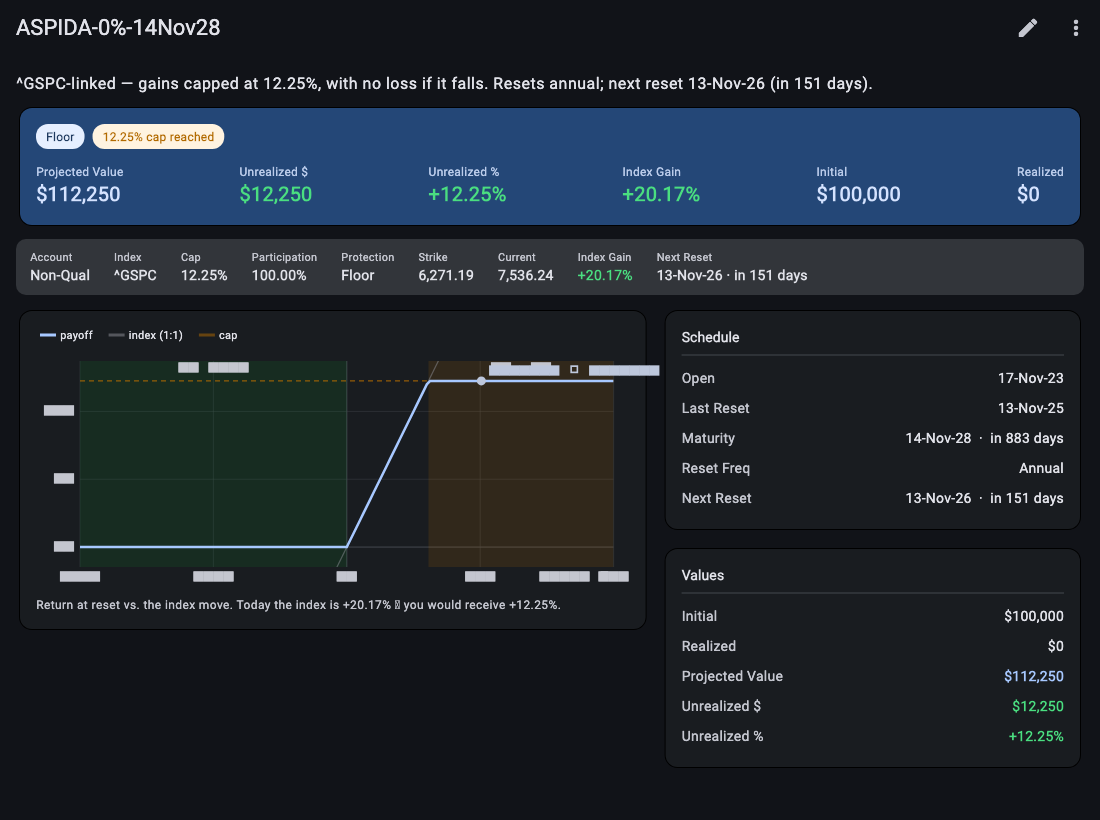
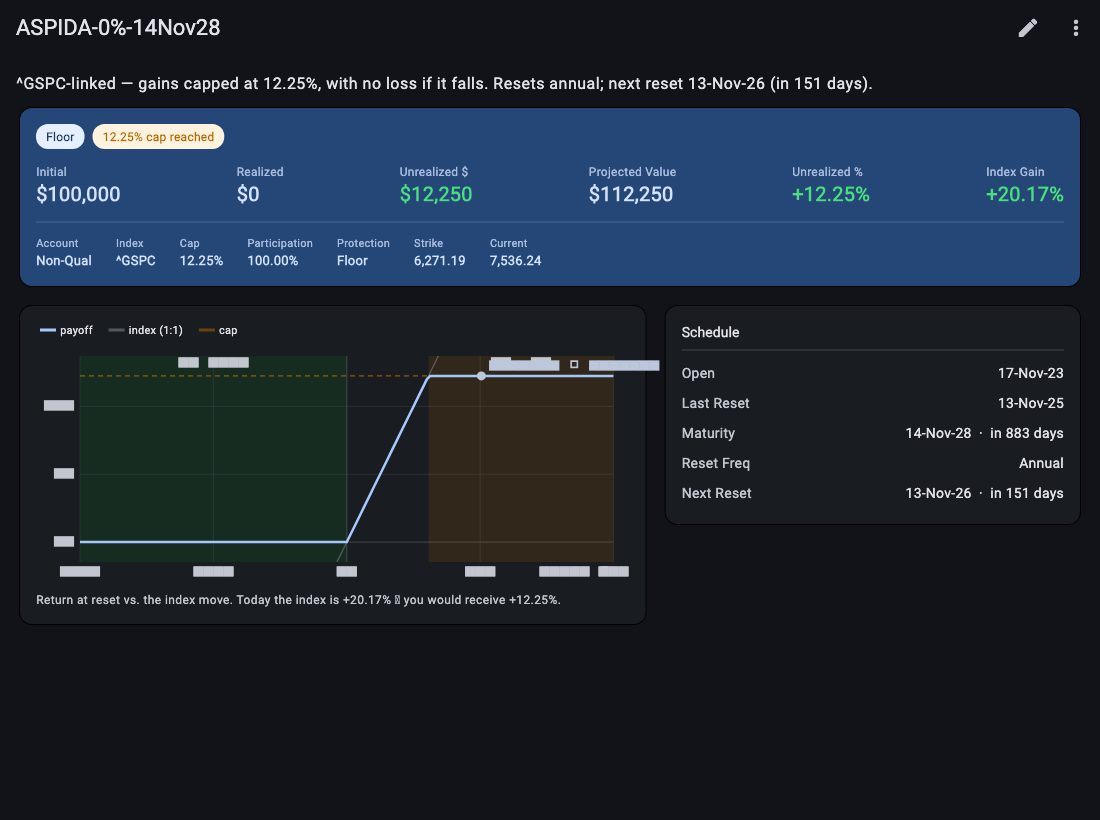
Drilldown: unified header + stop accrual at maturity + column order
- Reorder table money columns to Initial · Realized · Unrealized $ ·
  Projected Value · Unrealized % · Index Gain — dollars read as a sum, the two
  percentages sit together (Unrealized % now next to Index Gain).
- resetDue now stops at maturity: a reset dated after the maturity date is never
  processed, so a matured note can't keep crediting coupons. Covered by tests.
- Contract detail: merge the grey key-strip into the blue header as a second
  tier (terms below the figures) and drop the redundant Values card (it
  duplicated the header). One header, no duplicated figures.

diff --git a/app/lib/ui/holding_detail.dart b/app/lib/ui/holding_detail.dart
@@ -82,9 +82,7 @@ class HoldingDetail extends StatelessWidget {
             child: Text(_summary(h, asOf),
                 style: Theme.of(context).textTheme.bodyLarge?.copyWith(height: 1.4)),
           ),
-          _KeyFigures(h: h, cs: cs),
-          const SizedBox(height: 10),
-          _keyStrip(context, h, asOf), // compact scannable line of key facts
+          _KeyFigures(h: h, cs: cs, asOf: asOf),
           const SizedBox(height: 12),
           // Wide screens: chart and the fact cards side by side (everything
           // above the fold). Narrow: stacked.
@@ -144,81 +142,50 @@ class HoldingDetail extends StatelessWidget {
         ),
       );
 
+  // Only the Schedule (dates) lives beside the chart now — the figures and the
+  // contract terms moved into the unified header, so nothing is duplicated.
   Widget _sections(BuildContext context, Holding h, DateTime asOf, ColorScheme cs) =>
-      LayoutBuilder(builder: (context, c) {
-        final w = c.maxWidth >= 540 ? (c.maxWidth - 12) / 2 : c.maxWidth;
-        return Wrap(spacing: 12, runSpacing: 12, children: [
-          _Section(width: w, title: 'Schedule', rows: [
-            ('Open', date(h.openDate), null),
-            ('Last Reset', date(h.lastReset), null),
-            ('Maturity', '${date(h.maturity)}  ·  ${relDays(h.daysToMaturity(asOf))}', null),
-            ('Reset Freq', h.resetFreq.label, null),
-            ('Next Reset', '${date(h.nextReset)}  ·  ${relDays(h.daysToReset(asOf))}', null),
-          ]),
-          _Section(width: w, title: 'Values', rows: [
-            ('Initial', moneyK(h.initial), null),
-            ('Realized', moneyK(h.realized), null),
-            ('Projected Value', moneyK(h.projValueK), cs.primary),
-            ('Unrealized \$', moneyK(h.projGainDollarsK), gainColor(h.projGainDollarsK, cs)),
-            ('Unrealized %', pctSigned(h.projGain), gainColor(h.projGain, cs)),
-            if (h.isIncomeNote) ('Income note', 'coupon ${pct(h.couponRate)}', null),
-          ]),
-        ]);
-      });
-
-  /// Compact, scannable strip of the key terms/levels (mirrors the compact
-  /// table view) so the critical info is visible without scrolling.
-  Widget _keyStrip(BuildContext context, Holding h, DateTime asOf) {
-    final cs = Theme.of(context).colorScheme;
-    final prot = h.floor == 0 ? 'Floor' : '${h.protectionType} ${pct(h.floor)}';
-    Widget kv(String k, String v, {Color? color}) => Column(
-          mainAxisSize: MainAxisSize.min,
-          crossAxisAlignment: CrossAxisAlignment.start,
-          children: [
-            Text(k, style: TextStyle(fontSize: 11, color: cs.onSurfaceVariant)),
-            Text(v,
-                style: TextStyle(
-                    fontSize: 14, fontWeight: FontWeight.w600, color: color)),
-          ],
-        );
-    return Container(
-      width: double.infinity,
-      padding: const EdgeInsets.symmetric(horizontal: 14, vertical: 10),
-      decoration: BoxDecoration(
-          color: cs.surfaceContainerHighest,
-          borderRadius: BorderRadius.circular(10)),
-      child: Wrap(spacing: 24, runSpacing: 10, children: [
-        kv('Account', h.account.label),
-        kv('Index', h.index),
-        kv('Cap', capLabel(h.cap)),
-        kv('Participation', pct(h.participation)),
-        kv('Protection', prot),
-        kv('Strike', level(h.strike)),
-        kv('Current', level(h.currentLevel)),
-        kv('Index Gain', pctSigned(h.indexGain), color: gainColor(h.indexGain, cs)),
-        kv('Next Reset', '${date(h.nextReset)} · ${relDays(h.daysToReset(asOf))}'),
-      ]),
-    );
-  }
+      _Section(width: double.infinity, title: 'Schedule', rows: [
+        ('Open', date(h.openDate), null),
+        ('Last Reset', date(h.lastReset), null),
+        ('Maturity', '${date(h.maturity)}  ·  ${relDays(h.daysToMaturity(asOf))}', null),
+        ('Reset Freq', h.resetFreq.label, null),
+        ('Next Reset', '${date(h.nextReset)}  ·  ${relDays(h.daysToReset(asOf))}', null),
+      ]);
 }
 
-/// Big highlighted key figures.
+/// Unified header: a top tier of big outcome figures and a second tier of the
+/// contract terms/levels (folded in from the former grey strip), so everything
+/// lives in one card with no duplicated figures.
 class _KeyFigures extends StatelessWidget {
-  const _KeyFigures({required this.h, required this.cs});
+  const _KeyFigures({required this.h, required this.cs, required this.asOf});
   final Holding h;
   final ColorScheme cs;
+  final DateTime asOf;
 
   @override
   Widget build(BuildContext context) {
     final onC = cs.onPrimaryContainer;
+    final muted = onC.withValues(alpha: 0.75);
+    // Tier 1: big outcome figures (dollars read as a sum, then the percentages).
     Widget fig(String label, String value, Color color) => Column(
           mainAxisSize: MainAxisSize.min,
           crossAxisAlignment: CrossAxisAlignment.start,
           children: [
-            Text(label,
-                style: TextStyle(fontSize: 12, color: onC.withValues(alpha: 0.85))),
+            Text(label, style: TextStyle(fontSize: 12, color: muted)),
             Text(value,
                 style: TextStyle(fontSize: 20, fontWeight: FontWeight.bold, color: color)),
+          ],
+        );
+    // Tier 2: small contract terms/levels.
+    Widget term(String label, String value, {Color? color}) => Column(
+          mainAxisSize: MainAxisSize.min,
+          crossAxisAlignment: CrossAxisAlignment.start,
+          children: [
+            Text(label, style: TextStyle(fontSize: 11, color: muted)),
+            Text(value,
+                style: TextStyle(
+                    fontSize: 13, fontWeight: FontWeight.w600, color: color ?? onC)),
           ],
         );
     Widget chip(String text, Color bg, Color fg) => Container(
@@ -228,15 +195,24 @@ class _KeyFigures extends StatelessWidget {
               style: TextStyle(color: fg, fontSize: 12, fontWeight: FontWeight.w600)),
         );
     final prot = protectionPalette(h.protectionType, cs);
-    // Consistent grid labels (no ad-hoc "Payoff return"); spread across the
-    // width so the banner reads like a stat row in the main grid.
     final figs = <Widget>[
-      fig('Projected Value', moneyK(h.projValueK), onC),
-      fig('Unrealized \$', moneyK(h.projGainDollarsK), gainColor(h.projGainDollarsK, cs)),
-      fig('Unrealized %', pctSigned(h.projGain), gainColor(h.projGain, cs)),
-      fig('Index Gain', pctSigned(h.indexGain), gainColor(h.indexGain, cs)),
       fig('Initial', moneyK(h.initial), onC),
       fig('Realized', moneyK(h.realized), onC),
+      fig('Unrealized \$', moneyK(h.projGainDollarsK), gainColor(h.projGainDollarsK, cs)),
+      fig('Projected Value', moneyK(h.projValueK), onC),
+      fig('Unrealized %', pctSigned(h.projGain), gainColor(h.projGain, cs)),
+      fig('Index Gain', pctSigned(h.indexGain), gainColor(h.indexGain, cs)),
+    ];
+    final protLabel = h.floor == 0 ? 'Floor' : '${h.protectionType} ${pct(h.floor)}';
+    final terms = <Widget>[
+      term('Account', h.account.label),
+      term('Index', h.index),
+      term('Cap', capLabel(h.cap)),
+      term('Participation', pct(h.participation)),
+      term('Protection', protLabel),
+      term('Strike', level(h.strike)),
+      term('Current', level(h.currentLevel)),
+      if (h.isIncomeNote) term('Coupon', pct(h.couponRate)),
     ];
     return Card(
       color: cs.primaryContainer,
@@ -245,8 +221,7 @@ class _KeyFigures extends StatelessWidget {
         child: Column(crossAxisAlignment: CrossAxisAlignment.start, children: [
           Wrap(spacing: 8, runSpacing: 6, children: [
             chip(h.protectionType, prot.bg, prot.fg),
-            // Only flag the cap when it's actually reached (matches the table's
-            // single amber lock); below-cap shows nothing.
+            // Flag the cap only when it's actually reached (matches the table).
             if (h.gainStatus == GainStatus.capped)
               chip('${capLabel(h.cap)} cap reached',
                   const Color(0xFFFFF3E0), capAmber),
@@ -257,6 +232,8 @@ class _KeyFigures extends StatelessWidget {
                 ? Row(mainAxisAlignment: MainAxisAlignment.spaceBetween, children: figs)
                 : Wrap(spacing: 28, runSpacing: 12, children: figs);
           }),
+          Divider(height: 26, color: onC.withValues(alpha: 0.20)),
+          Wrap(spacing: 24, runSpacing: 12, children: terms),
         ]),
       ),
     );

diff --git a/app/test/reset_rollover_test.dart b/app/test/reset_rollover_test.dart
@@ -78,6 +78,41 @@ void main() {
               asOf),
           isFalse);
     });
+    test('a reset past maturity is not due (accrual stops at maturity)', () {
+      final h = _h(
+        isIncomeNote: true,
+        cap: 0.12,
+        lastReset: DateTime(2026, 5, 16),
+        nextReset: DateTime(2026, 6, 16),
+      ); // _h maturity is 2029-04-16
+      // Due before maturity.
+      expect(resetDue(h, DateTime(2026, 6, 17)), isTrue);
+      // A note whose next reset is after its maturity never accrues again.
+      final matured = _h(
+        isIncomeNote: true,
+        cap: 0.12,
+        lastReset: DateTime(2029, 4, 16),
+        nextReset: DateTime(2029, 5, 16), // past the 2029-04-16 maturity
+      );
+      expect(resetDue(matured, DateTime(2030, 1, 1)), isFalse);
+    });
+
+    test('catchUp stops at maturity instead of accruing forever', () {
+      // Monthly note maturing 2029-04-16; far-future asOf would otherwise roll
+      // dozens of coupons. It must stop at the maturity reset.
+      final h = _h(
+        isIncomeNote: true,
+        cap: 0.12,
+        lastReset: DateTime(2029, 2, 16),
+        nextReset: DateTime(2029, 3, 16),
+      ); // maturity 2029-04-16
+      final r = catchUp(h, DateTime(2031, 1, 1), _flat(110.0));
+      // Only the 16-Mar and 16-Apr (maturity) coupons; nothing past maturity.
+      expect(r.events.length, 2);
+      expect(r.holding.lastReset, DateTime(2029, 4, 16));
+      expect(resetDue(r.holding, DateTime(2031, 1, 1)), isFalse);
+    });
+
     test('inception never resets', () {
       expect(
           resetDue(

diff --git a/app/test/widget_test.dart b/app/test/widget_test.dart
@@ -124,11 +124,14 @@ void main() {
     ));
     await tester.pumpAndSettle();
     expect(tester.takeException(), isNull); // chart painter didn't throw
-    expect(find.text('Projected Value'), findsWidgets);
-    expect(find.text('Unrealized \$'), findsWidgets);
-    expect(find.text('Cap'), findsOneWidget); // compact key strip
-    expect(find.text('Schedule'), findsOneWidget);
-    expect(find.text('Values'), findsOneWidget);
+    expect(find.text('Projected Value'), findsOneWidget); // unified header (no dup card)
+    expect(find.text('Unrealized \$'), findsOneWidget);
+    // Contract terms folded into the header (former grey strip).
+    expect(find.text('Cap'), findsOneWidget);
+    expect(find.text('Account'), findsOneWidget);
+    expect(find.text('Strike'), findsOneWidget);
+    expect(find.text('Schedule'), findsOneWidget); // dates card beside the chart
+    expect(find.text('Values'), findsNothing); // redundant card removed
     expect(find.byType(CustomPaint), findsWidgets); // payoff chart
     expect(find.text('12.25% cap reached'), findsOneWidget); // status chip
     expect(find.textContaining('Return at reset vs. the index move'),

diff --git a/app/lib/ui/portfolio_table.dart b/app/lib/ui/portfolio_table.dart
@@ -91,13 +91,15 @@ class PortfolioTable extends StatelessWidget {
             fixedWidth: 104),
         _Col('Realized', true, (h, _) => h.realized, (h, _, _) => _t(moneyK(h.realized)),
             fixedWidth: 104),
-        // Outcome — the addends (Unrealized $/%) come before the resulting
-        // Projected Value, so each row reads left-to-right as the sum:
-        // Initial + Realized + Unrealized $ = Projected Value.
+        // Outcome — the dollar columns read as a running sum
+        // (Initial + Realized + Unrealized $ = Projected Value), then the two
+        // percentages (Unrealized %, Index Gain) sit together for comparison.
         _Col('Unrealized \$', true, (h, _) => h.projGainDollarsK,
             (h, _, cs) => DataCell(Text(moneyK(h.projGainDollarsK),
                 style: TextStyle(color: lossColor(h.projGainDollarsK, cs)))),
             fixedWidth: 112),
+        _Col('Projected Value', true, (h, _) => h.projValueK, (h, _, _) => _t(moneyK(h.projValueK)),
+            fixedWidth: 120),
         // Projected payoff %, highlighted by status: red loss / amber when the
         // cap is reached. A single amber lock (with a tooltip) flags ONLY a
         // capped-out product — below-cap and uncapped show no icon, so the lock
@@ -125,8 +127,6 @@ class PortfolioTable extends StatelessWidget {
           );
           return DataCell(tip != null ? Tooltip(message: tip, child: text) : text);
         }, fixedWidth: 104),
-        _Col('Projected Value', true, (h, _) => h.projValueK, (h, _, _) => _t(moneyK(h.projValueK)),
-            fixedWidth: 120),
         _Col('Index Gain', true, (h, _) => h.indexGain, (h, _, cs) => _signed(h.indexGain, cs),
             fixedWidth: 92),
         // Timing (monitor)

diff --git a/app/lib/core/reset_rollover.dart b/app/lib/core/reset_rollover.dart
@@ -28,8 +28,12 @@ DateTime advanceReset(DateTime from, ResetFreq freq) => switch (freq) {
     };
 
 /// Whether [h] has a reset on or before [asOf] that hasn't been processed yet.
+/// Accrual stops at maturity — a reset dated after the maturity date is never
+/// processed (the contract has ended), so a matured note can't keep crediting.
 bool resetDue(Holding h, DateTime asOf) =>
-    h.resetFreq != ResetFreq.inception && !h.nextReset.isAfter(asOf);
+    h.resetFreq != ResetFreq.inception &&
+    !h.nextReset.isAfter(asOf) &&
+    !h.nextReset.isAfter(h.maturity);
 
 /// Apply ONE reset to [h] (the one at `h.nextReset`), using [levelAt] for the
 /// index level(s) on the reset date. Returns the updated holding and the logged